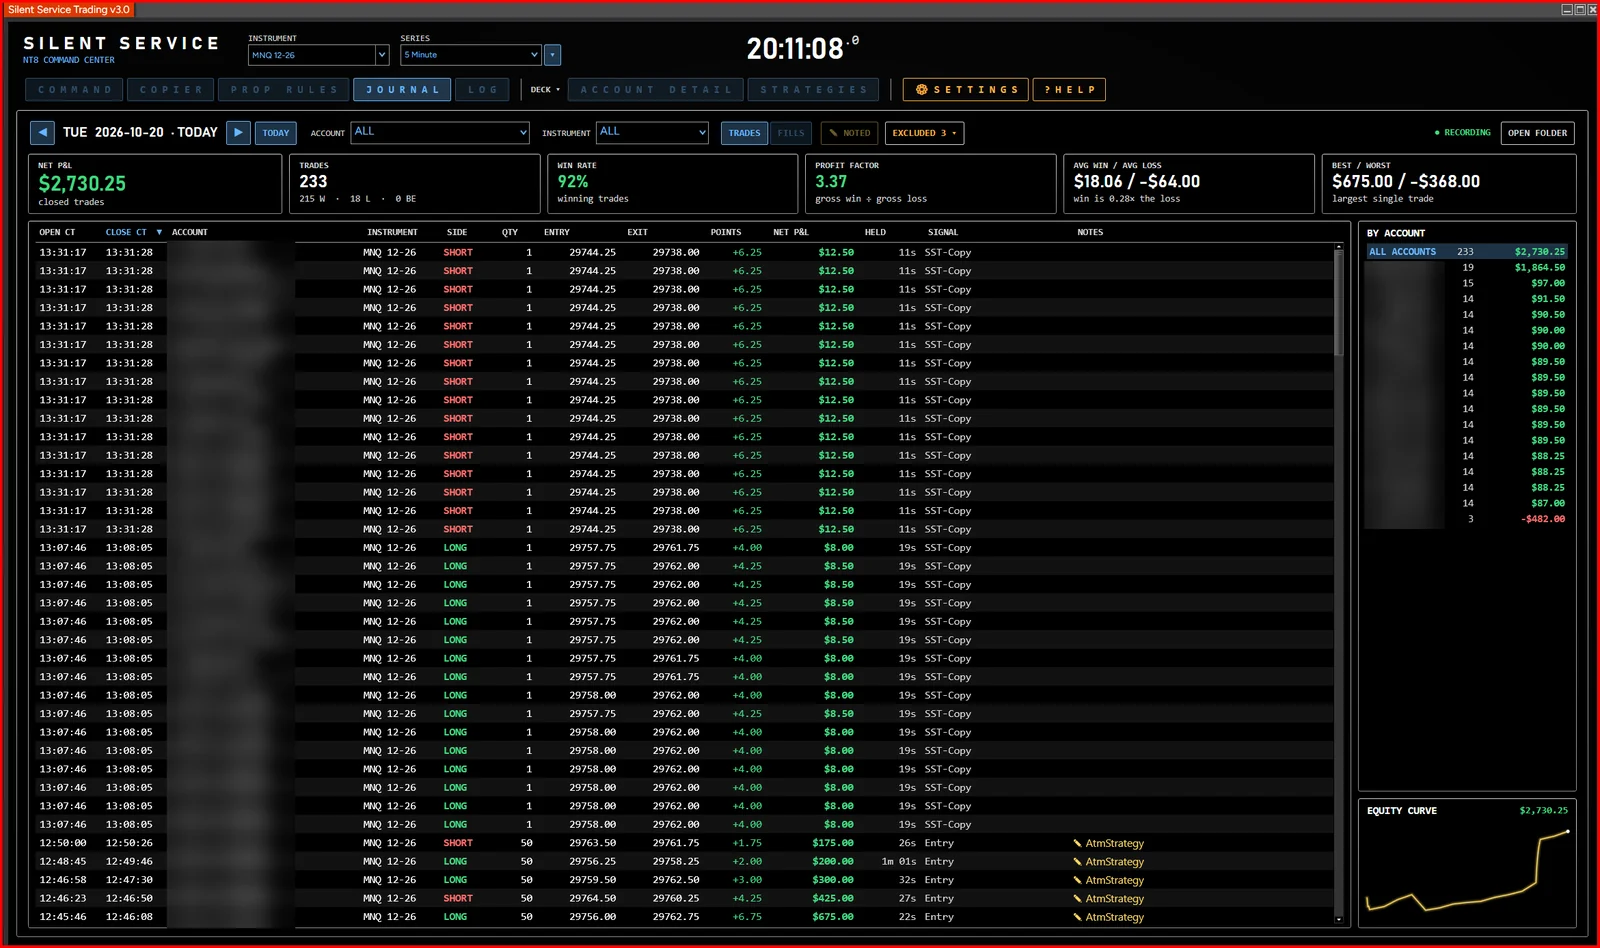
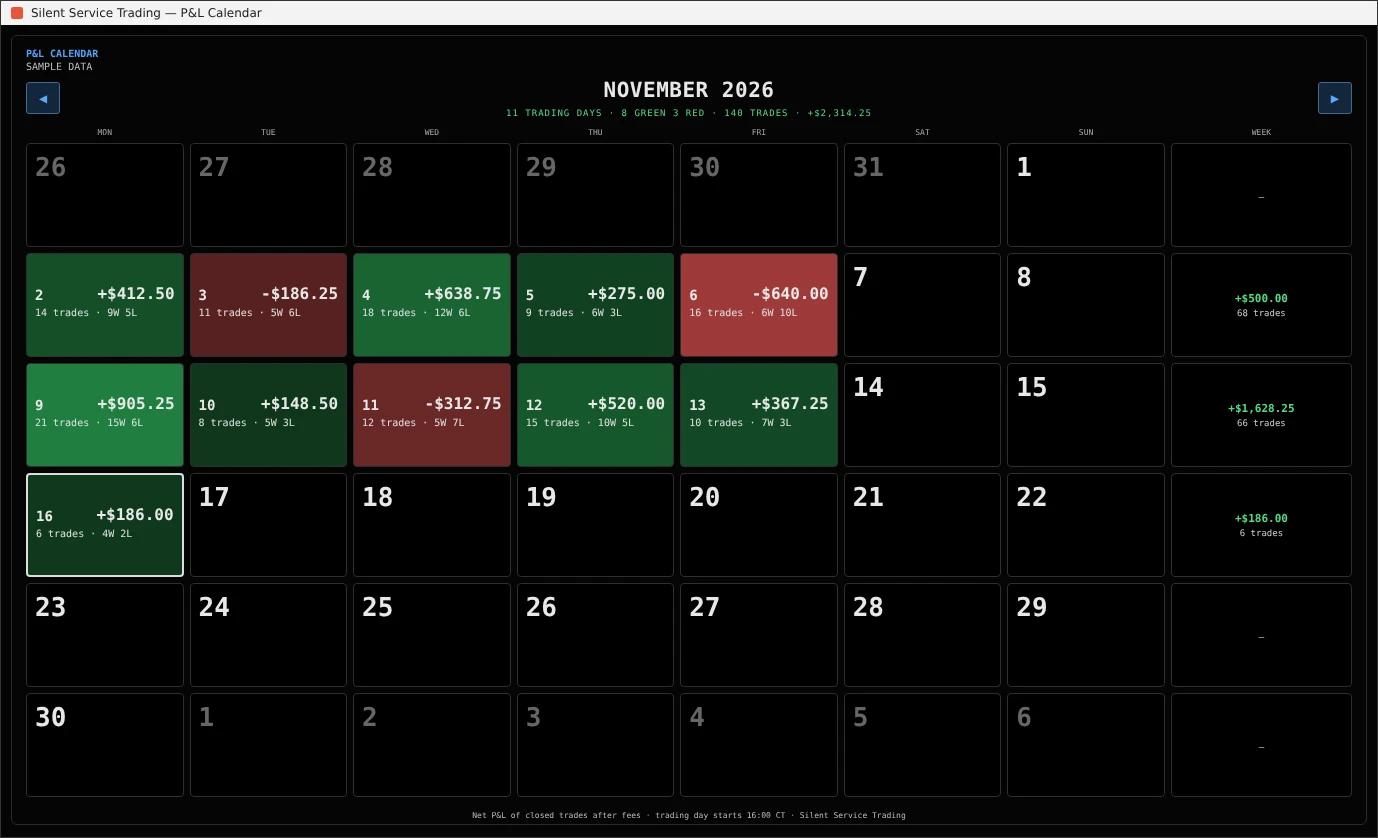
P&L calendar screenshot with sample data (labelled in the image and alt text)
Claude-Session: https://claude.ai/code/session_01CW6AG73K3NvifGMNTorxUc

diff --git a/index.html b/index.html
@@ -166,7 +166,7 @@
         </ul>
       </div>
 <figure class="shot shot-real">
-  <img src="/assets/img/cc-plan-review.webp" alt="Trade Journal: daily results, every trade, results by account and an equity curve (account names blurred)" width="1600" height="948" loading="lazy" decoding="async">
+  <img src="/assets/img/cc-plan-review.webp" alt="P&amp;L calendar: net result, trades and wins / losses for each day, with weekly totals (sample data)" width="1378" height="838" loading="lazy" decoding="async">
 </figure>
     </div>
   </div>

diff --git a/tools/build_site.py b/tools/build_site.py
@@ -283,7 +283,7 @@ home = f"""<section class="hero">
           <li>P&amp;L net of fees, a monthly P&amp;L calendar and an equity curve</li>
         </ul>
       </div>
-{shot("Trade journal", "cc-plan-review.png", "Trade Journal: daily results, every trade, results by account and an equity curve (account names blurred)")}
+{shot("Trade journal", "cc-plan-review.png", "P&amp;L calendar: net result, trades and wins / losses for each day, with weekly totals (sample data)")}
     </div>
   </div>
 </section>
